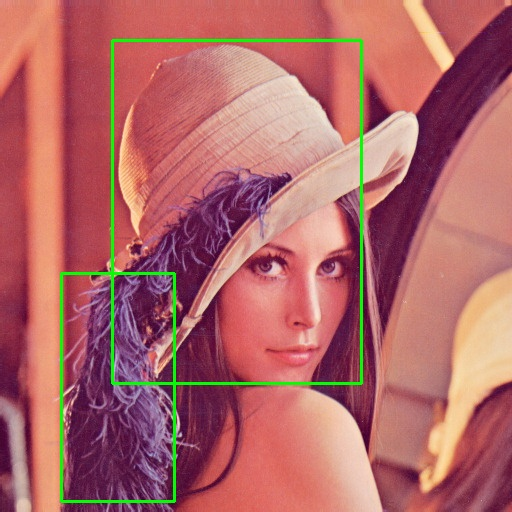
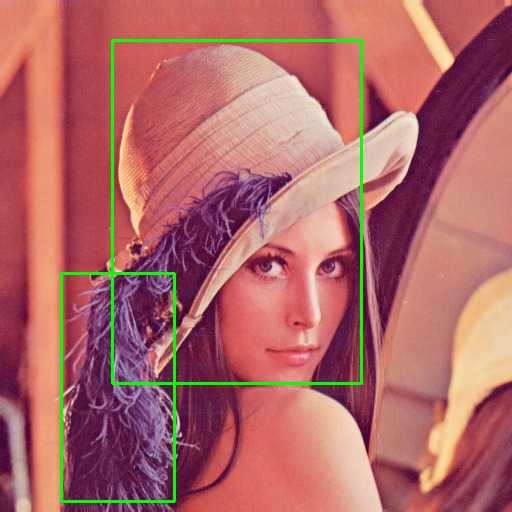
reduce the image size

diff --git a/modules/imgaug/samples/random_crop.cpp b/modules/imgaug/samples/random_crop.cpp
@@ -81,7 +81,7 @@ void imgaug_test(){
 //    aug.call(src, dst);
     cv::imshow("lena_dst.png", dst);
     cv::waitKey(0);
-    cv::imwrite("/Users/bytedance/Desktop/out.jpg", dst);
+    cv::imwrite("/Users/bytedance/Desktop/compose_out.jpg", dst, {cv::IMWRITE_JPEG_QUALITY, 50});
 }
 
 static void onMouse(int event, int x, int y, int, void*){
@@ -102,6 +102,15 @@ void get_mouse_click_coordinates(){
 
 int main(int argv, char** argc){
 //    get_mouse_click_coordinates();
-    det_test();
+//    det_test();
+    using namespace cv;
+    imgaug_test();
+//    imgaug::RandomCrop randomCrop(cv::Size(300, 300));
+//    Mat src = imread(samples::findFile("lena.jpg"), IMREAD_COLOR);
+//    Mat dst;
+//    randomCrop.call(src, dst);
+
+//    imwrite("/Users/bytedance/Desktop/lena.jpg", src, {cv::IMWRITE_JPEG_QUALITY, 50});
+
     return 0;
 }

diff --git a/modules/imgaug/samples/det_sample.cpp b/modules/imgaug/samples/det_sample.cpp
@@ -39,5 +39,8 @@ int main(){
     imshow("dst", dst);
     waitKey(0);
 
+    imwrite("/Users/bytedance/Desktop/det_src.jpg", ori_src, {cv::IMWRITE_JPEG_QUALITY, 50});
+    imwrite("/Users/bytedance/Desktop/det_rotation_out.jpg", dst, {cv::IMWRITE_JPEG_QUALITY, 50});
+
     return 0;
 }

diff --git a/modules/imgaug/samples/det_compose_sample.cpp b/modules/imgaug/samples/det_compose_sample.cpp
@@ -46,5 +46,7 @@ int main(){
     imshow("dst", dst);
     waitKey(0);
 
+    imwrite("/Users/bytedance/Desktop/det_compose_out.jpg", dst, {cv::IMWRITE_JPEG_QUALITY, 50});
+
     return 0;
 }
